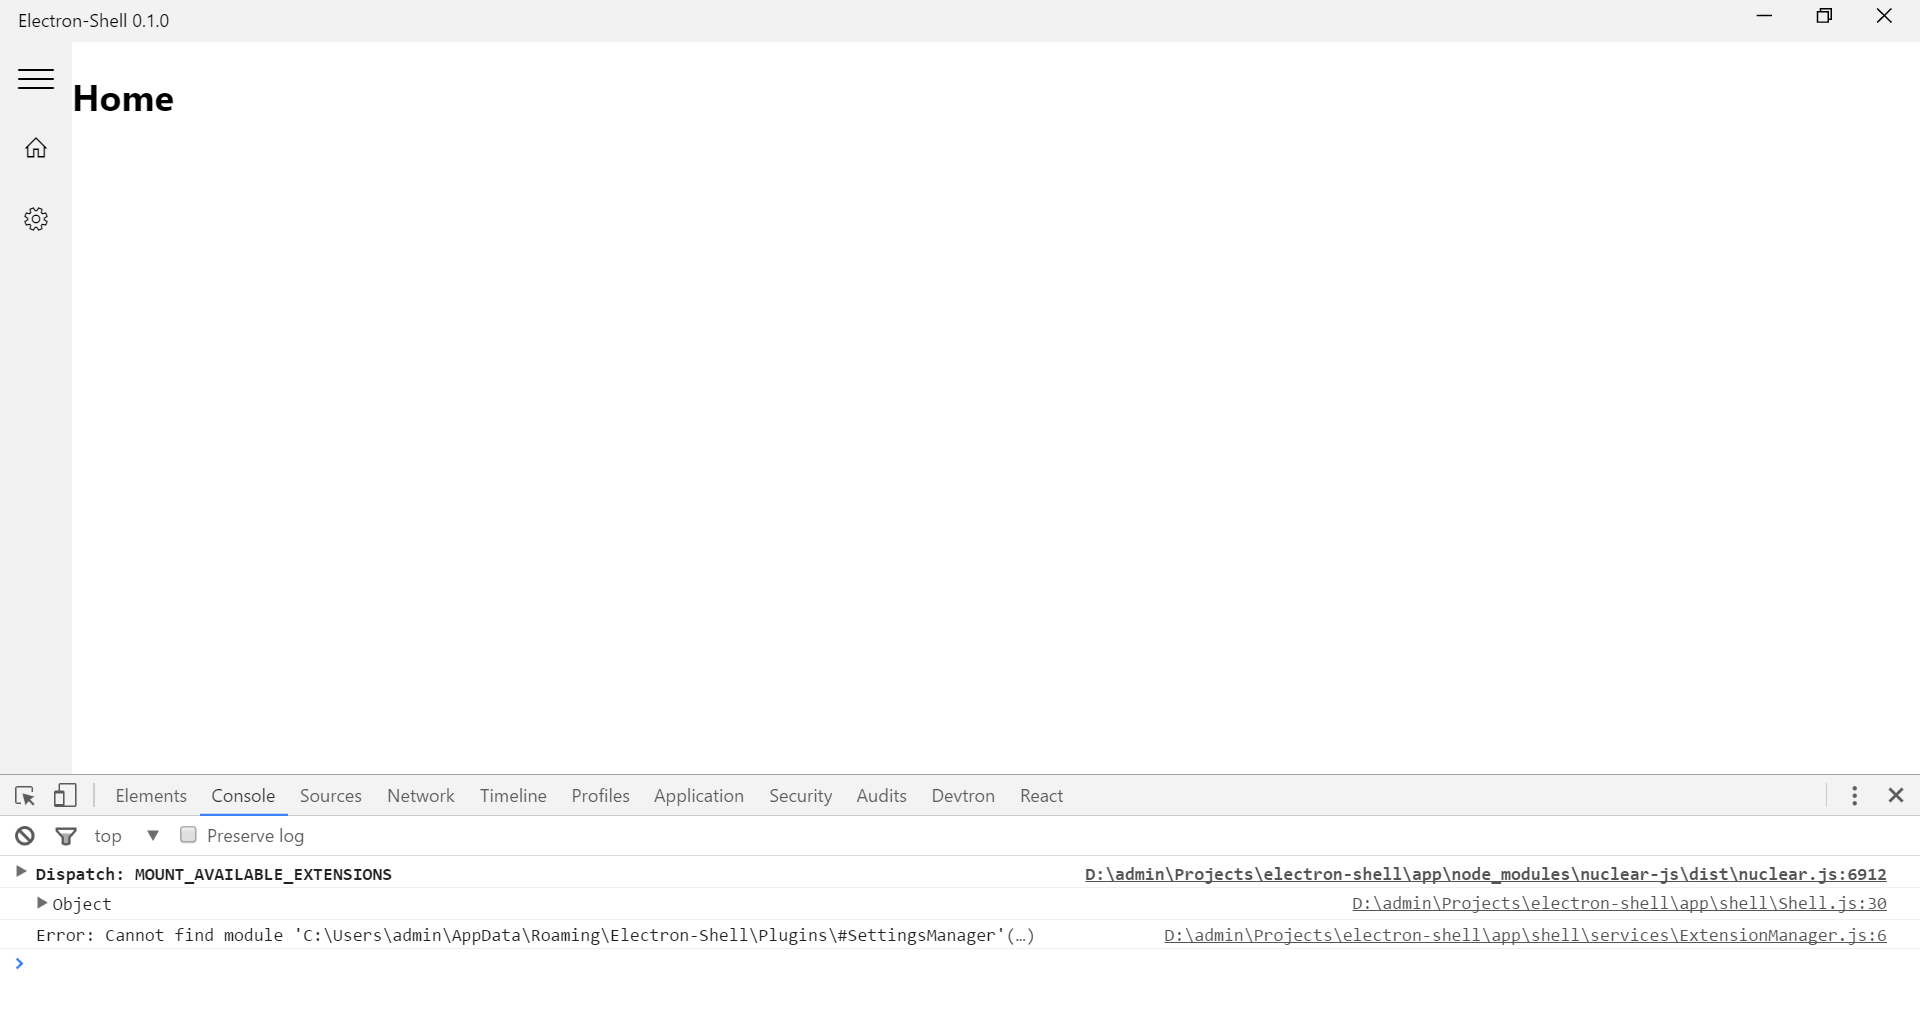
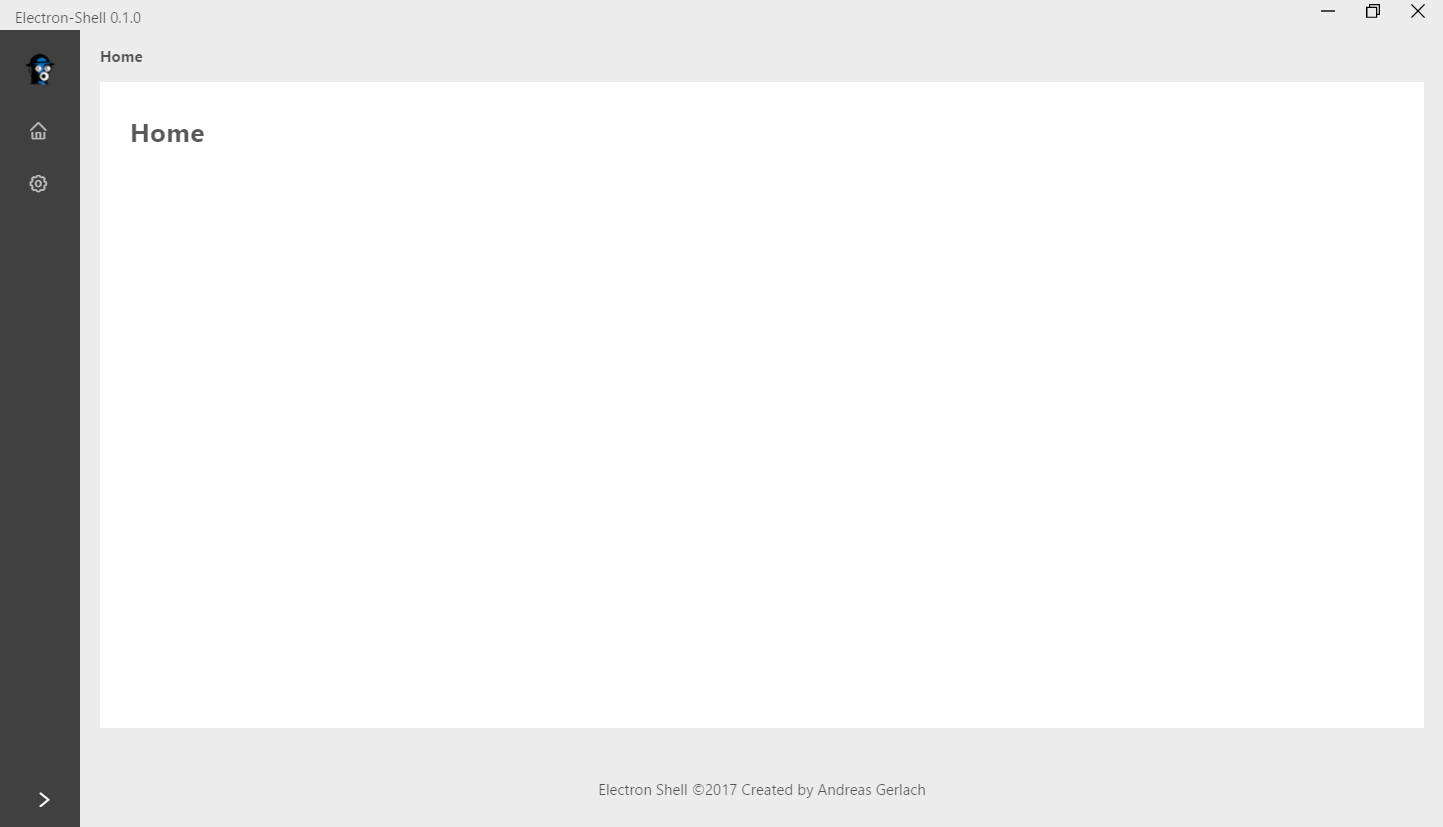
navigation, new screenshot

diff --git a/app/shell/views/MainLayout.jsx b/app/shell/views/MainLayout.jsx
@@ -16,6 +16,7 @@ class MainLayout extends Reflux.Component {
   constructor (props, context) {
     super (props, context)
     this.state = {
+      activeModule: 'Home',
       collapsed: false,
       mode: 'inline',
     }
@@ -28,8 +29,14 @@ class MainLayout extends Reflux.Component {
     })
   }
 
-  navigateTo (route:string) {
-    this.props.router.push(route)
+  navigateTo ({ key }) {
+    if (key === '.$1') {
+      this.setState({ activeModule: 'Home' })
+      this.props.router.push('/')
+    } else if (key === '.$2') {
+      this.setState({ activeModule: 'Settings'})
+      this.props.router.push('settings')
+    }
   }
 
   render () {
@@ -49,38 +56,28 @@ class MainLayout extends Reflux.Component {
           onCollapse={this.handleTogglePane.bind(this)}
         >
           <div className="logo" />
-          <Menu theme="dark" mode={this.state.mode} defaultSelectedKeys={['6']}>
-            <Menu.SubMenu
-              key="sub1"
-              title={<span><Icon type="user" /><span className="nav-text">User</span></span>}
-            >
-              <Menu.Item key="1">Tom</Menu.Item>
-              <Menu.Item key="2">Bill</Menu.Item>
-              <Menu.Item key="3">Alex</Menu.Item>
-            </Menu.SubMenu>
-            <Menu.SubMenu
-              key="sub2"
-              title={<span><Icon type="team" /><span className="nav-text">Team</span></span>}
-            >
-              <Menu.Item key="4">Team 1</Menu.Item>
-              <Menu.Item key="5">Team 2</Menu.Item>
-            </Menu.SubMenu>
-            <Menu.Item key="6">
+          <Menu theme="dark" mode={this.state.mode} defaultSelectedKeys={['1']}
+                onClick={this.navigateTo.bind(this)}>
+            <Menu.Item key="1">
               <span>
-                <Icon type="file" />
-                <span className="nav-text">File</span>
+                <Icon type="home" />
+                <span className="nav-text">Home</span>
+              </span>
+            </Menu.Item>
+            <Menu.Item key="2">
+              <span>
+                <Icon type="setting" />
+                <span className="nav-text">Settings</span>
               </span>
             </Menu.Item>
           </Menu>
         </Sider>
         <Layout>
-          <Header style={{ background: '#fff', padding: 0 }} />
-          <Content style={{ margin: '0 16px' }}>
+          <Content style={{ margin: '0 16px', height: '100%' }}>
             <Breadcrumb style={{ margin: '12px 0' }}>
-              <Breadcrumb.Item>User</Breadcrumb.Item>
-              <Breadcrumb.Item>Bill</Breadcrumb.Item>
+              <Breadcrumb.Item>{this.state.activeModule}</Breadcrumb.Item>
             </Breadcrumb>
-            <div style={{ padding: 24, background: '#fff', minHeight: 360 }}>
+            <div style={{ padding: 24, background: '#fff', minHeight: 360, height: '90%' }}>
               {this.props.children}
             </div>
           </Content>

diff --git a/app/shell/styles/ControlStyles.jsx b/app/shell/styles/ControlStyles.jsx
@@ -113,5 +113,5 @@ export const TitleBarStyle = {
   justifyContent: 'flex-end',
   display: 'flex',
   padding: '2px',
-  backgroundColor: '#f2f2f2'
+  backgroundColor: 'rgb(236, 236, 236)'
 }
